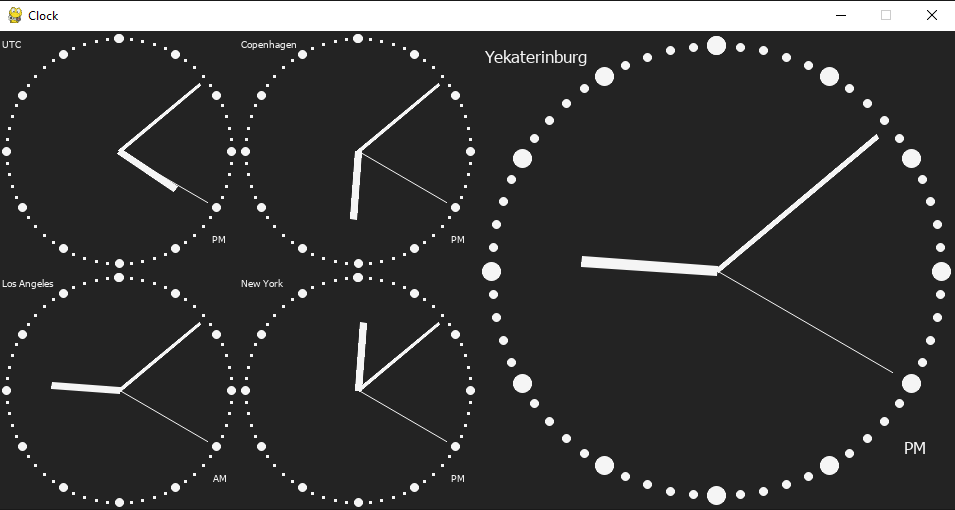
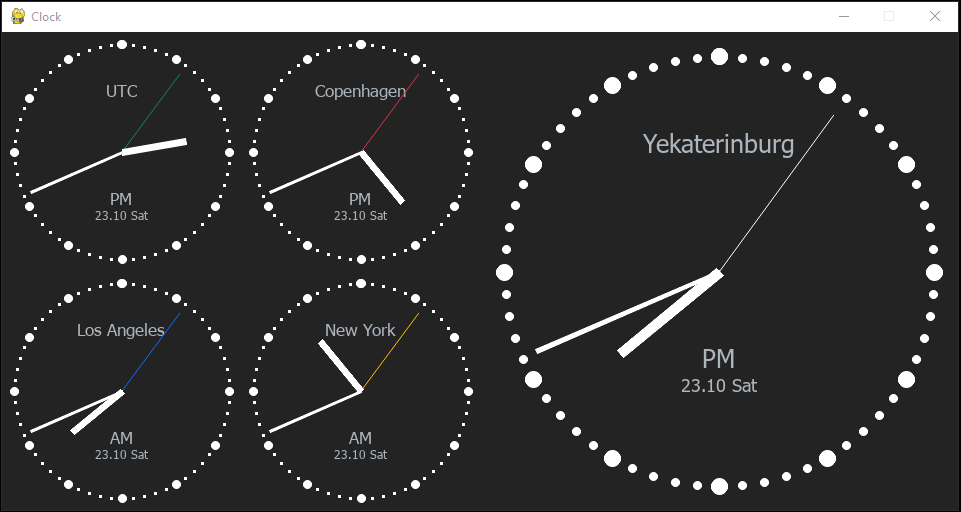
move on the clockface city, date.month and AM/PM

diff --git a/clock.py b/clock.py
@@ -165,7 +165,6 @@ class PolygonMinuteArrow(PolygonArrowMixin, MinuteArrow):
 
 
 class Clock:
-    settings = None
     padding = None
     surface = None
     screen = None
@@ -176,7 +175,6 @@ class Clock:
 
     def __init__(self, screen, settings):
         self.screen = screen
-        self.settings = settings
         self.radius = Decimal(settings.clock_diameter / 2)
         self.padding = Decimal(settings.padding)
         self.hour_point_radius = Decimal(settings.hour_point_radius)
@@ -187,6 +185,7 @@ class Clock:
         self.coordinates = settings.coordinates
         self.backgound_color = settings.backgound_color.value
         self.color = settings.color.value
+        self.font_color = settings.font_color.value
 
         surface = pygame.Surface(get_clock_size(settings))
         self.surface = surface
@@ -197,13 +196,15 @@ class Clock:
 
         # arrows
         self.second_arrow = SecondArrow(
-            surface, self.radius, self.center, self.color, 1
+            surface, self.radius, self.center, settings.second_color.value
         )
         self.minute_arrow = PolygonMinuteArrow(
-            surface, self.radius, self.center, self.color, settings.minute_thickness
+            surface, self.radius, self.center, self.color,
+            settings.minute_thickness
         )
         self.hour_arrow = PolygonHourArrow(
-            surface, self.radius, self.center, self.color, settings.hour_thickness
+            surface, self.radius, self.center, self.color,
+            settings.hour_thickness
         )
 
         # generate face_points for hours and minutes
@@ -223,7 +224,7 @@ class Clock:
             else:
                 hour_flag += 1
 
-    def draw_face(self, pm=False):
+    def draw_face(self, now):
         for point in self.face_points:
             pygame.gfxdraw.filled_circle(
                 self.surface,
@@ -243,15 +244,39 @@ class Clock:
         # text timezone
         city = str(self.timezone).split('/')[-1].replace('_', ' ')
         myfont = pygame.font.SysFont(self.font_family, self.font_size)
-        textsurface = myfont.render(city, True, self.color)
-        position = Point(self.padding / 2, self.padding)
+        textsurface = myfont.render(city, True, self.font_color)
+        width = Decimal(textsurface.get_width())
+        position = Point(
+            int(self.padding + self.radius - width / 2),
+            int(self.padding + self.radius / 3)
+        )
         self.surface.blit(textsurface, position)
 
-        # text timezone
-        textsurface = myfont.render('PM' if pm else 'AM', True, self.color)
+        # AM or PM
+        textsurface = myfont.render(
+            'PM' if now.hour > 11 else 'AM',
+            True,
+            self.font_color
+        )
+        width = Decimal(textsurface.get_width())
         position = Point(
-            int(self.radius * Decimal(1.9)),
-            self.radius * Decimal(1.8)
+            int(self.padding + self.radius - width / 2),
+            int(self.padding + self.radius * 4 / 3)
+        )
+        self.surface.blit(textsurface, position)
+        pm_height = Decimal(textsurface.get_height())
+
+        # date.month
+        myfont = pygame.font.SysFont(self.font_family, int(self.font_size * 3 / 4))
+        textsurface = myfont.render(
+            f'{now:%d.%m %a}',
+            True,
+            self.font_color
+        )
+        width = Decimal(textsurface.get_width())
+        position = Point(
+            int(self.padding + self.radius - width / 2),
+            int(self.padding + self.radius * 4 / 3 + pm_height)
         )
         self.surface.blit(textsurface, position)
 
@@ -265,7 +290,7 @@ class Clock:
     def update(self):
         self.surface.fill(self.backgound_color)
         now = datetime.now(self.timezone)
-        self.draw_face(now.hour > 11)
+        self.draw_face(now)
         self.second_arrow.update(now)
         self.minute_arrow.update(now)
         self.hour_arrow.update(now)

diff --git a/settings.py b/settings.py
@@ -1,21 +1,23 @@
-from models import MyColor, TimeZones, Point, Size
+from models import MyColor, TimeZones, Point, Size, BootstrapColor
 
 
-clock_diameter = 450
-padding = 14
+clock_diameter = 430
+padding = 24
 default_clock = {
     'clock_diameter': clock_diameter,
     'padding': padding,
-    'hour_point_radius': 9,
+    'hour_point_radius': 8,
     'min_point_radius': 4,
     'font_family': 'Tahoma',
-    'font_size': 17,
+    'font_size': 25,
+    'font_color': BootstrapColor.GRAY500,
     'timezone': TimeZones.UTC,
     'coordinates': Point(0, 0),
     'backgound_color': MyColor.BLACK,
-    'color': MyColor.SILVER,
+    'color': BootstrapColor.WHITE,
     'hour_thickness': 10,
     'minute_thickness': 4,
+    'second_color': BootstrapColor.WHITE,
 }
 
 quarter_clock = {
@@ -24,9 +26,10 @@ quarter_clock = {
     'padding': padding / 2,
     'hour_point_radius': 4,
     'min_point_radius': 1,
-    'font_size': 10,
+    'font_size': 17,
     'hour_thickness': 6,
     'minute_thickness': 3,
+    'second_color': BootstrapColor.BLUE,
 }
 
 default_settings = {
@@ -39,11 +42,13 @@ SETTINGS = {
     'clocks': [
         {
             **quarter_clock,
+            'second_color': BootstrapColor.GREEN,
         },
         {
             **quarter_clock,
             'coordinates': Point(clock_diameter / 2 + padding, 0),
             'timezone': TimeZones.COPENHAGEN,
+            'second_color': BootstrapColor.RED,
         },
         {
             **quarter_clock,
@@ -55,6 +60,7 @@ SETTINGS = {
             'coordinates': Point(clock_diameter / 2 + padding,
                                  clock_diameter / 2 + padding),
             'timezone': TimeZones.NEW_YORK,
+            'second_color': BootstrapColor.YELLOW,
         },
         {
             **default_clock,
